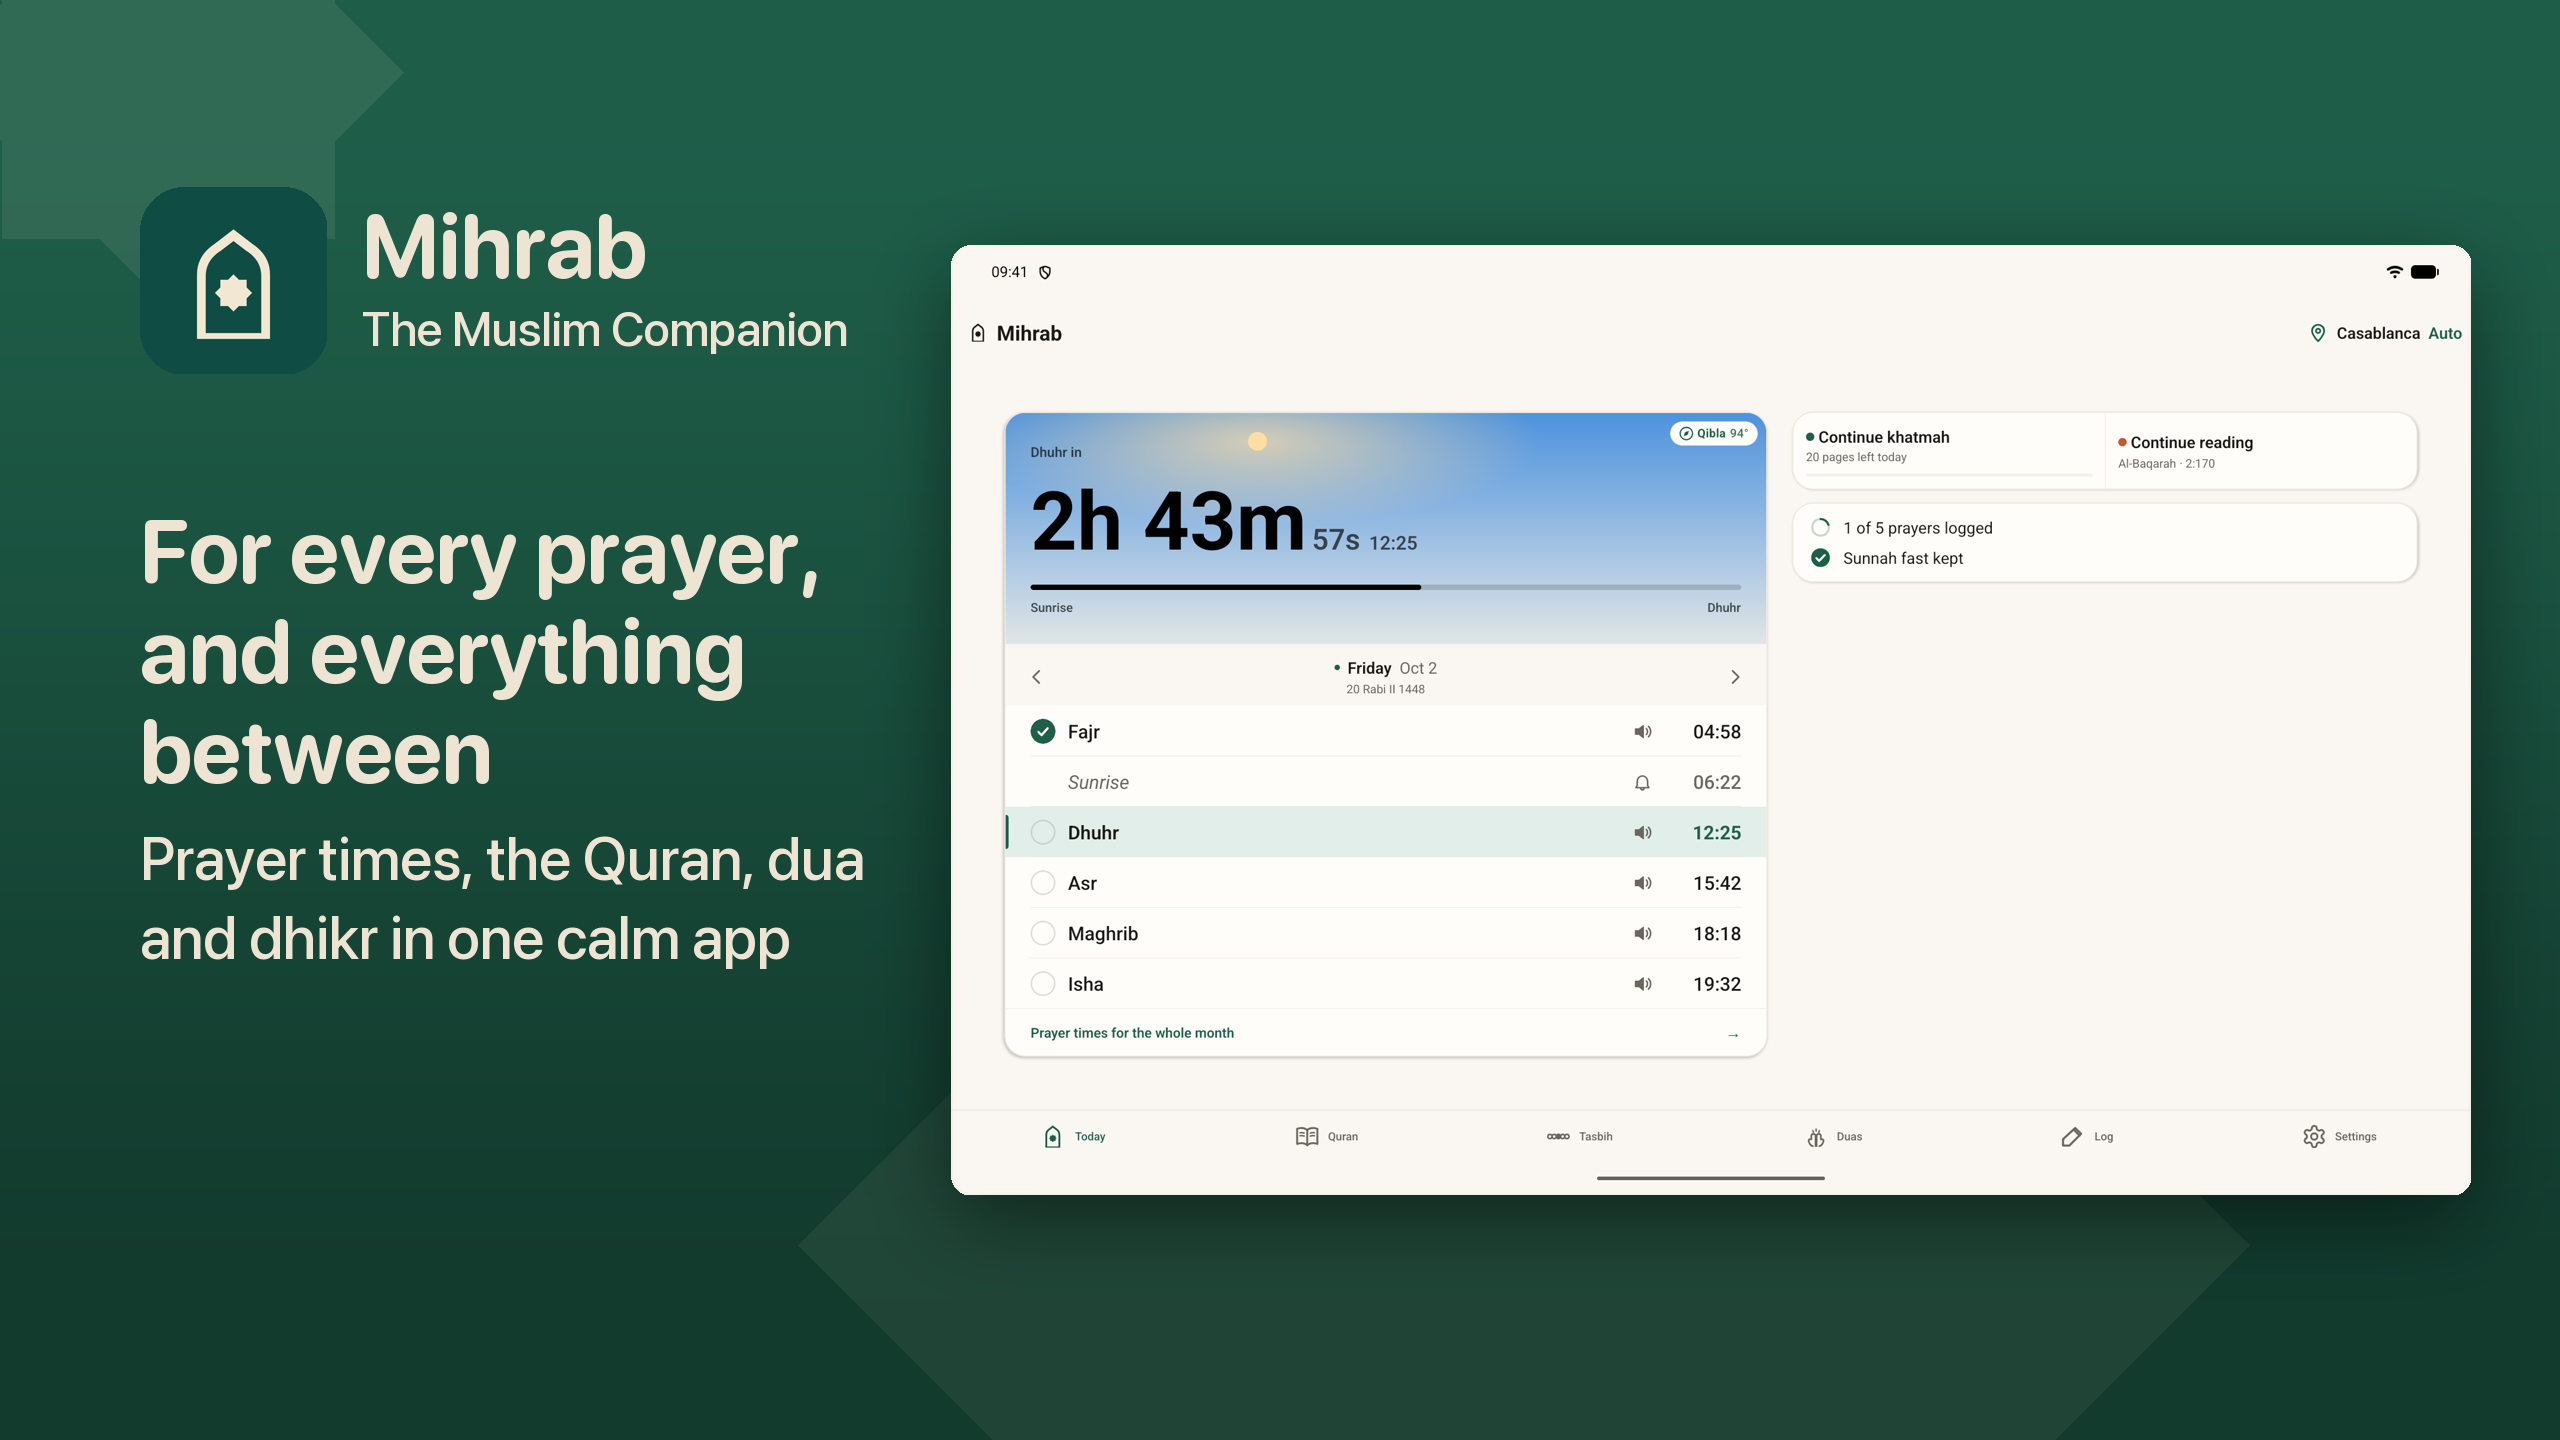
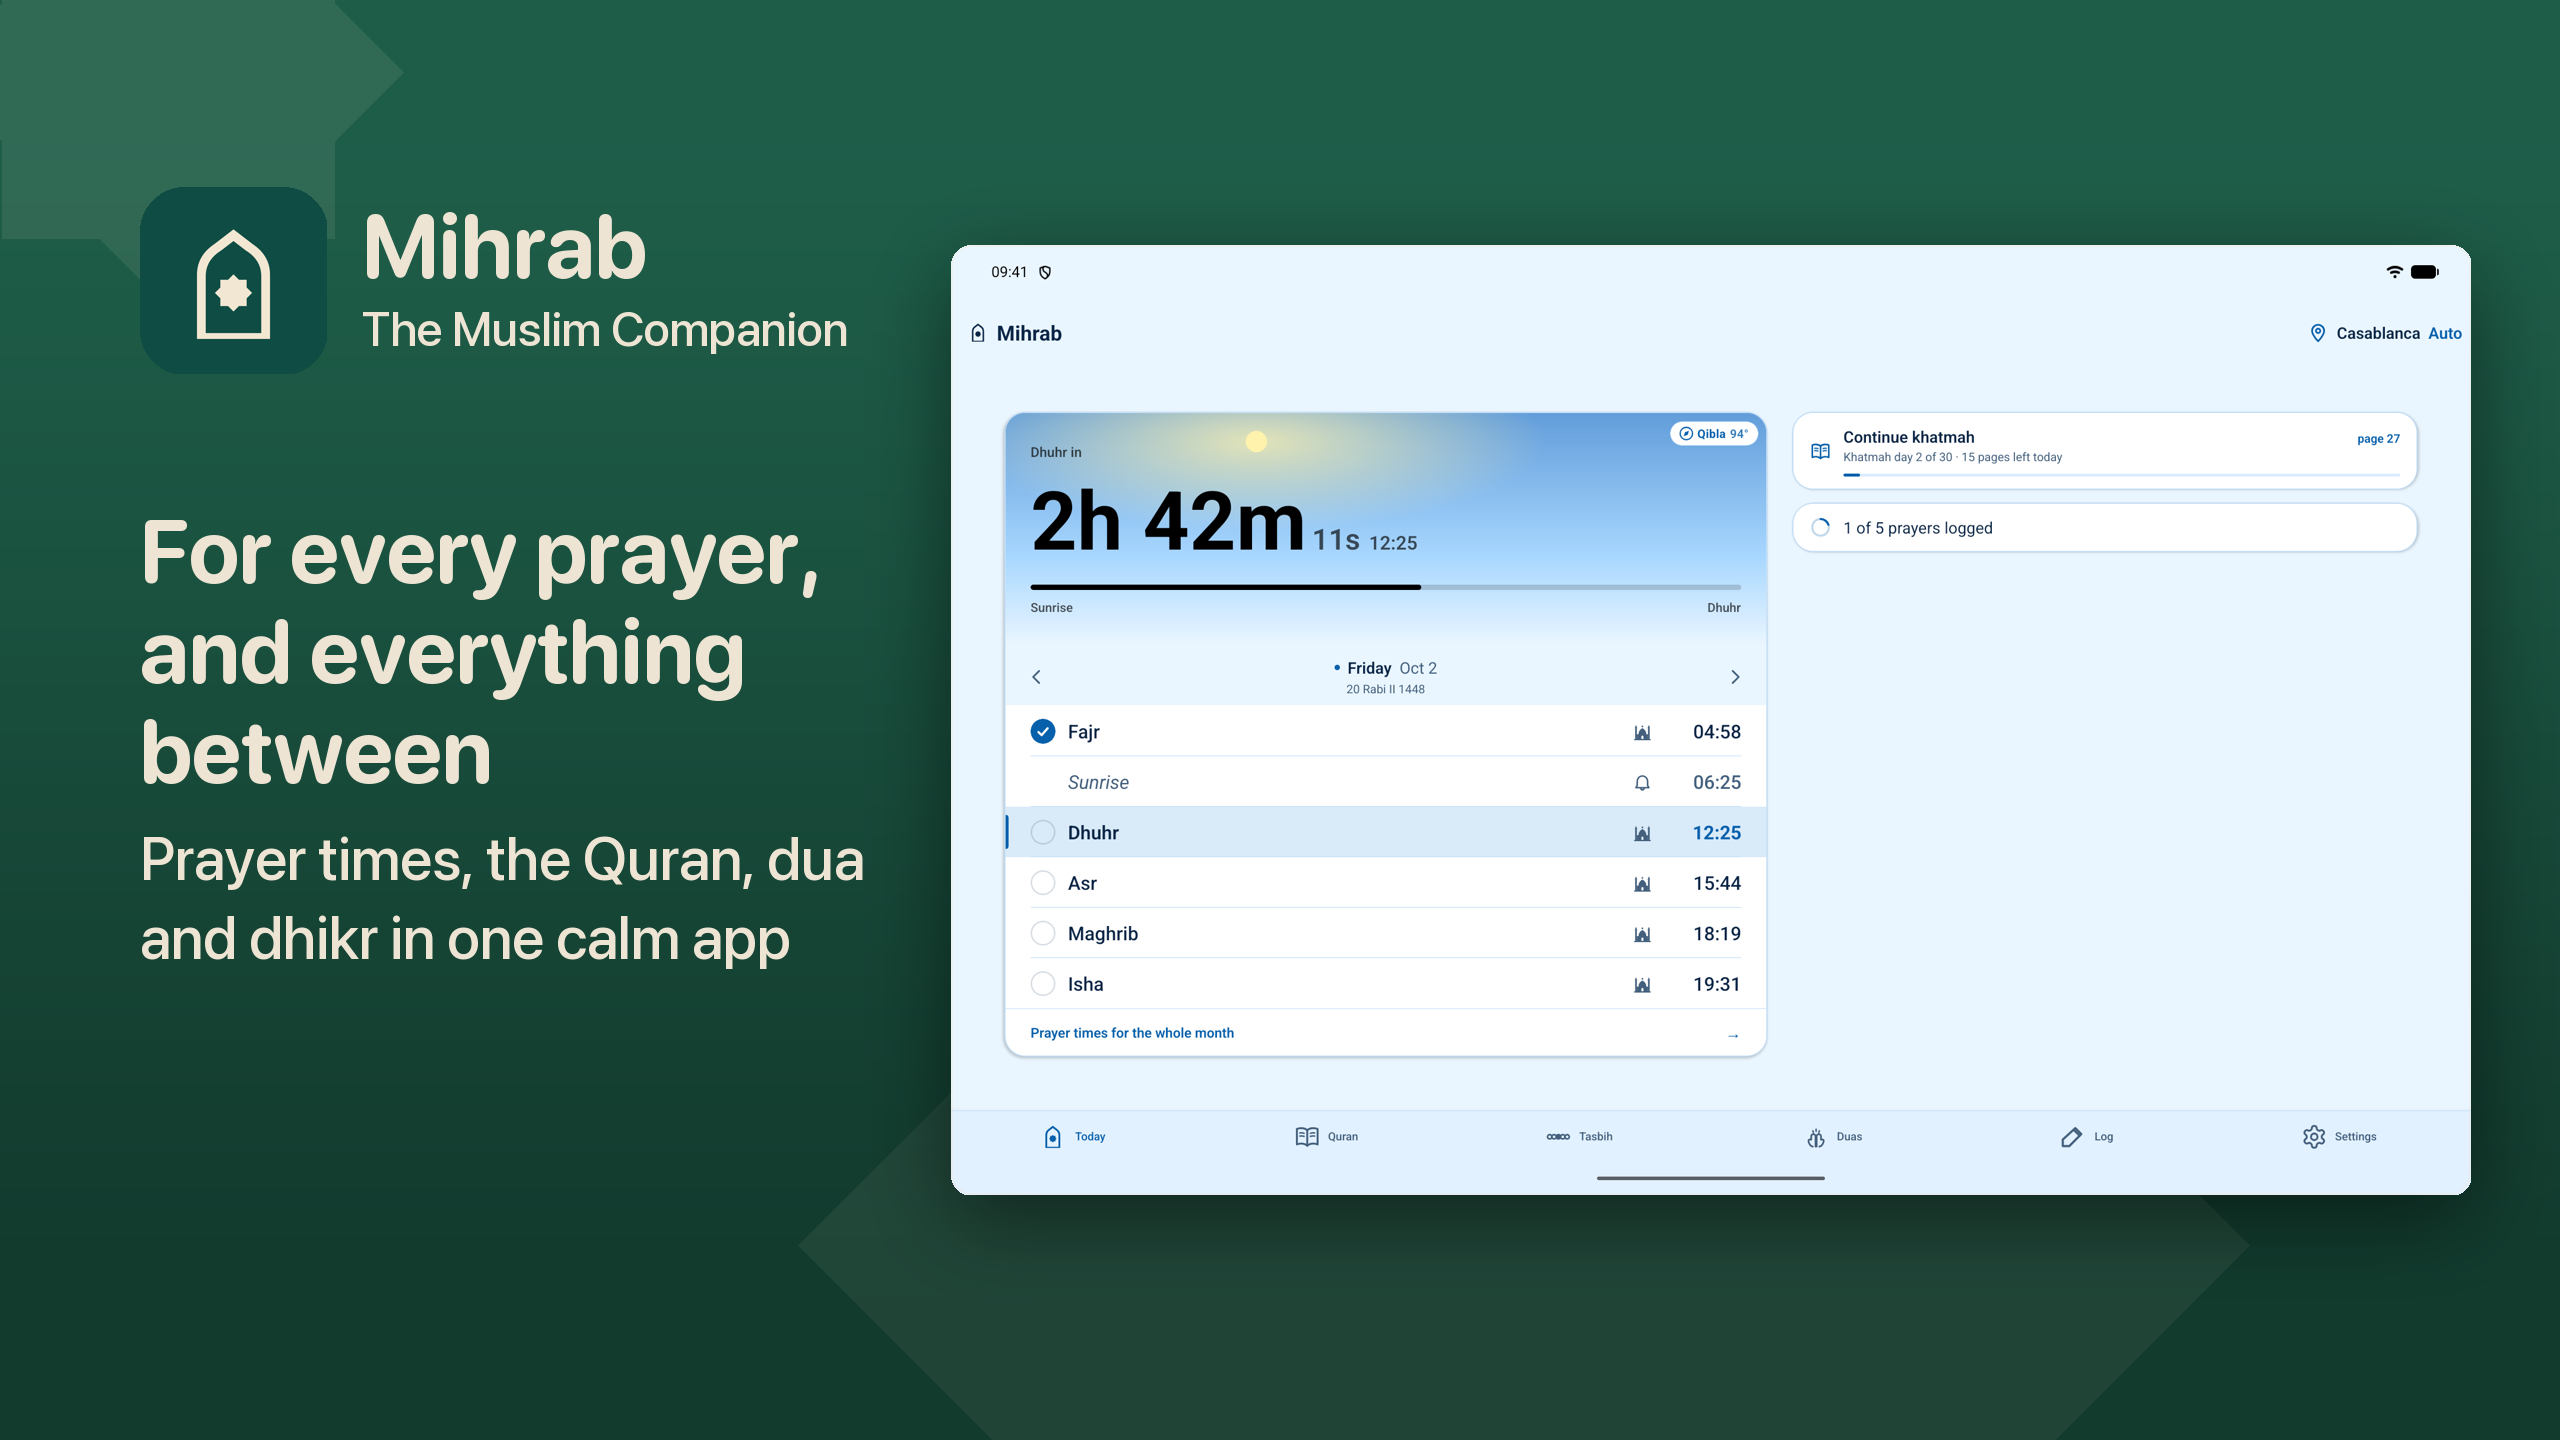
Store sets: the home panel is the Sky theme, and the extra panels go
The first panel of every set — Android phone and tablet, iPhone, iPad —
is now Today under the Sky theme, the look a new install starts in, so
a separate Sky panel says the same thing twice: 09_sky and the tablet's
07_sky are gone. The full-screen alert panel (10_alert) is dropped from
the store story too. The sets are back to eight phone panels and six
tablet ones, inside Play's limit; the F-Droid slots, the Play cap in
verify_store.py and the captions are as they were before the two were
added. The feature graphic is untouched (it is drawn from the night
Today screen).

diff --git a/branding/tools/build_store.py b/branding/tools/build_store.py
@@ -82,14 +82,6 @@ CAPTIONS = {
         "Facing\\nthe Ka'bah",
         "A live bearing from your phone's own sensors",
     ),
-    "sky": (
-        "A home that keeps\\nthe sky's time",
-        "The Sky theme: sun, dusk and night drawn from your own prayer times",
-    ),
-    "alert": (
-        "Rings like\\nan alarm",
-        "A full-screen alert for each prayer, even on silent, with Stop and Snooze",
-    ),
 }
 
 # The tablet panels are landscape, and their text is a column beside the
@@ -97,7 +89,6 @@ CAPTIONS = {
 # break moves; the words are the same.
 LANDSCAPE_HEADLINES = {
     "home": "For every prayer,\\nand everything\\nbetween",
-    "sky": "A home that\\nkeeps the\\nsky's time",
 }
 
 
@@ -115,16 +106,9 @@ def caption(screen, landscape):
 # overwrites files F-Droid already holds rather than adding duplicates
 # beside them. The names no longer describe the picture — F-Droid shows
 # them in file-name order and never shows the name.
-#
-# F-Droid orders them by file NAME, as strings: a tenth panel named
-# "10_alert" would sort before "1_home" and open the listing. So the
-# tenth is "9a_alert" — after "9_sky" ('_' < 'a'), and nothing else moves.
 FDROID_SLOTS = {
-    "phoneScreenshots": [
-        "1_home", "2_mushaf", "3_month", "4_duas", "5_tasbih", "6_journal", "7_qibla",
-        "8_qibla", "9_sky", "9a_alert",
-    ],
-    "tenInchScreenshots": ["1_home", "2_spread", "3_month", "4_duas", "5_journal", "6_month", "7_sky"],
+    "phoneScreenshots": ["1_home", "2_mushaf", "3_month", "4_duas", "5_tasbih", "6_journal", "7_qibla"],
+    "tenInchScreenshots": ["1_home", "2_spread", "3_month", "4_duas", "5_journal"],
 }
 
 SETS = [

diff --git a/branding/tools/verify_store.py b/branding/tools/verify_store.py
@@ -82,10 +82,7 @@ folder("branding/store-previews-ipad", (2064, 2752), count=(3, 10), exts=(".png"
 folder("fastlane/screenshots/ipad/13", (2064, 2752), count=(3, 10), exts=(".jpg",))
 
 # ---- Play ----
-# Play's console takes at most 8 phone screenshots; the set holds 10 since
-# the Sky home and the full-screen alert joined it (2.31), and the eight
-# to upload are picked by hand at upload time. F-Droid shows all ten.
-folder("branding/play-previews", (1080, 2160), count=(2, 10), exts=(".png",))
+folder("branding/play-previews", (1080, 2160), count=(2, 8), exts=(".png",))
 play_ratio("branding/play-previews", 2.0)
 folder("branding/play-previews-tablet", (2560, 1440), count=(4, 8), exts=(".png",))
 exact_ratio("branding/play-previews-tablet", 16 / 9)
@@ -112,7 +109,7 @@ for rel, size, mode in (
 # composed panel to F-Droid (its listing had a page of bare captures next to
 # the panels it had inherited, and read as two apps). Names in these folders
 # must stay stable — see the note in build_store.py.
-folder("fastlane/metadata/android/en-US/images/phoneScreenshots", (1080, 2160), count=(2, 10), exts=(".png",))
+folder("fastlane/metadata/android/en-US/images/phoneScreenshots", (1080, 2160), count=(2, 8), exts=(".png",))
 folder("fastlane/metadata/android/en-US/images/tenInchScreenshots", (2560, 1440), count=(2, 8), exts=(".png",))
 
 if problems:

diff --git a/branding/SCREENSHOT_GUIDE.md b/branding/SCREENSHOT_GUIDE.md
@@ -125,46 +125,32 @@ identity's own headline. Eight panels per phone set, in pillar order:
 
 The Android tablet has six: Today, the spread, Tilawah, duas, log, month.
 
-### The 2.31 additions (2026-10-13)
+### The 2.31 home panel (2026-10-13)
 
-Two panels joined the sets without moving any of the eight above:
+The first panel of every set — Android phone, Android tablet, iPhone and
+iPad — is the Today screen under the **Sky theme**, the look a new
+install starts in since 2.31. It is the only Sky panel: the home panel
+already shows it, so a second one would say the same thing twice. The
+caption stays the identity's ("For every prayer, and everything
+between"). The Play feature graphic is unchanged — it is drawn from the
+night Today screen, not from `01_home`. The full-screen alert is not in
+the store story.
 
-| # | Android phone | iPhone 6.9″ / iPad 13″ | Android tablet |
-|---|---|---|---|
-| 9 | Today under the **Sky theme** (`09_sky`) | same (`09_sky`) | same (`07_sky`) |
-| 10 | The **full-screen prayer alert**, Maghrib (`10_alert`) | — | — |
-
-The alert is Android-only because iOS has no in-app alert screen: there the
-alarm is AlarmKit's own system UI, which a simulator does not draw. Google
-Play takes at most eight phone screenshots, so the Play set is now TEN
-files and the eight to upload are picked by hand (`verify_store.py` allows
-ten on purpose); F-Droid shows all ten. The tenth F-Droid file is
-`9a_alert.png`, not `10_alert.png`: F-Droid orders by file name as a
-string, and `10_` would sort before `1_` and open the listing.
-
-How the two were shot. The Sky home is the 2.28 home recipe with
-`"appearance":"sky"` in `prayerapp.settings.v1`; the emulator's `geo fix`
-only lands while some app is actually asking for a location, so send it
-right after launching Mihrab, not before. The alert cannot be opened by a
-deep link — `PrayerAlarmActivity` finishes unless a posted notification
-carries it — so let the real alarm ring: pin the clock a minute before the
-prayer with `cmd alarm set-time` (plain `date` does not wake AlarmManager),
-turn the screen OFF with `input keyevent KEYCODE_SLEEP` (with the screen on
-Android shows a heads-up instead of the full-screen intent), wait for it,
-then `screencap`. On the simulators the app's data container was copied
-from the already-onboarded iPad Pro 11 sim (`simctl get_app_container … data`)
+How it was shot. Android: the 2.28 home recipe with `"appearance":"sky"`
+in `prayerapp.settings.v1`; the emulator's `geo fix` only lands while
+some app is actually asking for a location, so send it right after
+launching Mihrab, not before. Apple: the app's data container was copied
+from an already-onboarded simulator (`simctl get_app_container … data`)
 so neither device ran the walkthrough; the notification permission is the
 one thing that copy does not carry — toggle Prayer alerts off and on in
-Settings → Notifications and allow the prompt, or the Today screen opens
-with a "permission denied" banner.
+Settings → Notifications and allow the prompt, or Today opens with a
+"permission denied" banner. The simulator clock is the host's, so the
+Apple panels are the afternoon after Asr (Fajr, Dhuhr and Asr logged);
+the Android ones are 09:41.
 
-The same day the phone hero's sun got its glow back (it had been drawn
-only during the launch run — see `glowCy` in HeroSky.tsx), so every
-phone and iPad home panel, `01_home` and `09_sky`, was shot again on
-the fixed build. A home panel with a bare sun is the old bug, not the
-look. The Android tablet's card was never affected and was kept. The
-simulator clock is the host's, so the Apple pair is the afternoon after
-Asr (Fajr, Dhuhr and Asr logged); the Android pair is 09:41.
+The sun on the phone's hero glows (the halo had been drawn only during
+the launch run until `glowCy` in HeroSky.tsx fixed it): a home panel
+with a bare sun is that old bug, not the look.
 
 Captions live in `CAPTIONS` in `build_store.py`; one headline size per set
 (`headline_size`), balanced wrapping (no orphan word), and a landscape-only
